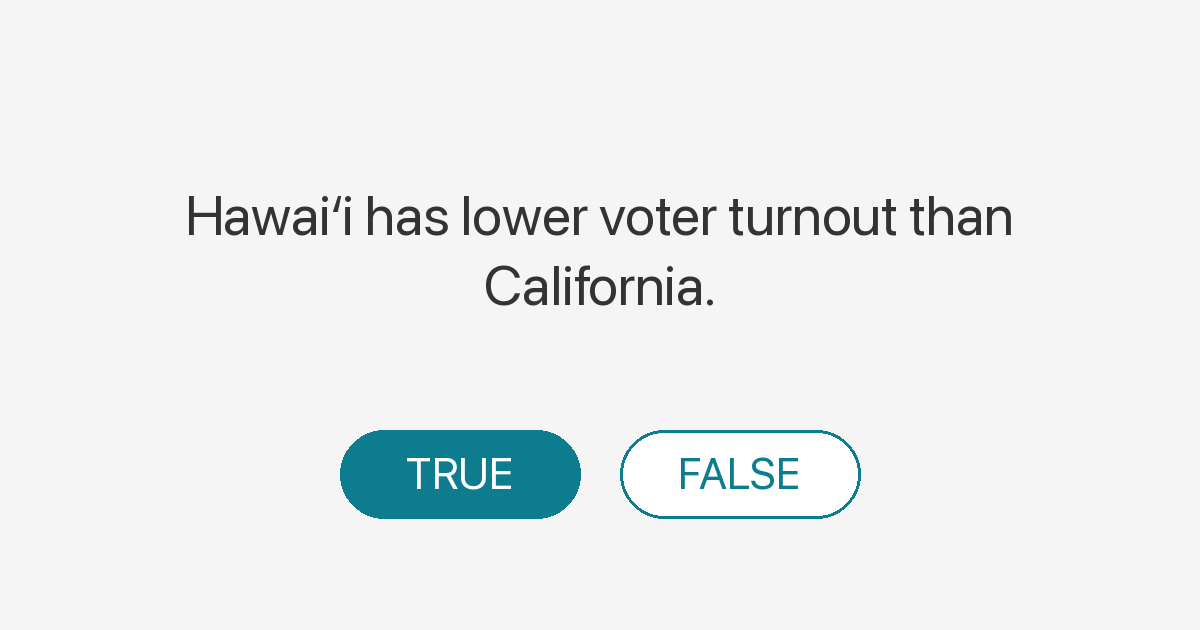
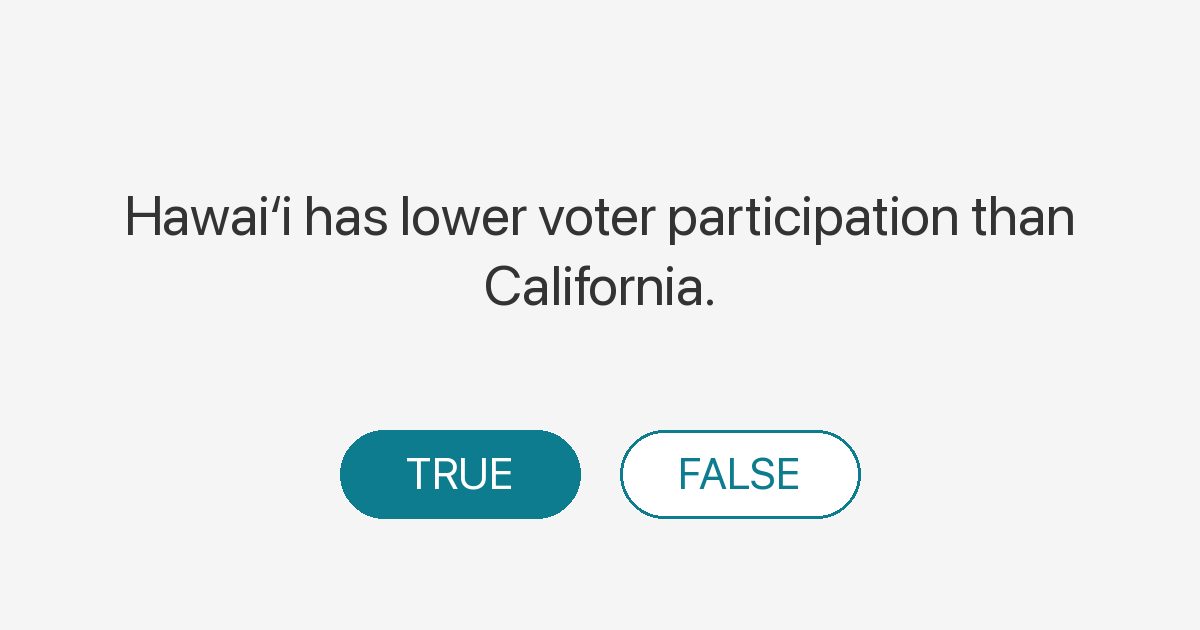
content: use "voter participation" consistently, never "voter turnout"
The metric is the share of voting-ELIGIBLE residents (VEP) casting a ballot,
i.e. "voter participation" — distinct from "turnout" of registered voters. Align
the remaining surfaces to the metric label + slugs:
- QOTD claims q070, q072, q073 reworded turnout -> participation (q073's slug +
  OG renamed too, old OG removed). All stay TRUE; answers unchanged.
- voter_participation_rate narrative in js/data.js: 15 prose "turnout" ->
  "participation". Kept only the source's literal URL and the cited paper title.

Changed region(s): [[0.0925, 0.3016, 0.8942, 0.3921]]

diff --git a/js/data.js b/js/data.js
@@ -2483,9 +2483,9 @@ const DASHBOARD_DATA = {
       "year": 2024,
       "source": "US Elections Project (VEP 2024)"
     },
-    "howToRead": "The zigzag pattern reflects presidential years (higher turnout) vs. midterm elections (lower). Hawaiʻi has been worse than the median for over 40 years, and the gap has widened: 8 points in 1980, 15 points in 2024.",
-    "potentialDrivers": "Hawaiʻi adopted all-mail voting and same-day registration, yet turnout ranks #50. Removing logistical barriers did not move the needle. Low electoral competition is the most likely driver. <a href=\"https://apnews.com/article/b0db5c6a5c3f5e1745c9b9cc646126f5\">AP reported in 2024</a> that only 279 candidates filed statewide, down from 330 in 2020 and more than 400 in 2022, with many legislative incumbents and several local officials running unopposed. <a href=\"https://uhero.hawaii.edu/wp-content/uploads/2023/02/Public-Campaign-Financing.pdf\">UHERO found in 2023</a> that Hawaiʻi's partial public financing system is ineffective at raising competition and that stronger electoral competition tends to directly increase voter mobilization and turnout. Access barriers are not the main cause: the <a href=\"https://elections.hawaii.gov/wp-content/uploads/Implementing-Elections-by-Mail-2024-Final.pdf\">Office of Elections reported in 2024</a> that mail ballot packets went out before both elections, same-day registration was available statewide, and more than 89,000 voters had enrolled in ballot tracking before the general election.",
-    "countyNarrative": "Low turnout is a statewide pattern rather than a county-specific problem, and all four counties rank well below national norms. Honolulu County drives the overall figure by weight of population; competitive mayoral and city council races occasionally lift Oʻahu turnout modestly above the state average. Maui County has seen competitive local races in recent cycles, and post-wildfire civic engagement lifted 2024 turnout in some precincts. Hawaiʻi County and Kauaʻi County consistently post the state's lowest county-level turnout rates, reflecting smaller candidate fields and fewer competitive down-ballot contests relative to their voter rolls.",
+    "howToRead": "The zigzag pattern reflects presidential years (higher participation) vs. midterm elections (lower). Hawaiʻi has been worse than the median for over 40 years, and the gap has widened: 8 points in 1980, 15 points in 2024.",
+    "potentialDrivers": "Hawaiʻi adopted all-mail voting and same-day registration, yet participation ranks #50. Removing logistical barriers did not move the needle. Low electoral competition is the most likely driver. <a href=\"https://apnews.com/article/b0db5c6a5c3f5e1745c9b9cc646126f5\">AP reported in 2024</a> that only 279 candidates filed statewide, down from 330 in 2020 and more than 400 in 2022, with many legislative incumbents and several local officials running unopposed. <a href=\"https://uhero.hawaii.edu/wp-content/uploads/2023/02/Public-Campaign-Financing.pdf\">UHERO found in 2023</a> that Hawaiʻi's partial public financing system is ineffective at raising competition and that stronger electoral competition tends to directly increase voter mobilization and participation. Access barriers are not the main cause: the <a href=\"https://elections.hawaii.gov/wp-content/uploads/Implementing-Elections-by-Mail-2024-Final.pdf\">Office of Elections reported in 2024</a> that mail ballot packets went out before both elections, same-day registration was available statewide, and more than 89,000 voters had enrolled in ballot tracking before the general election.",
+    "countyNarrative": "Low participation is a statewide pattern rather than a county-specific problem, and all four counties rank well below national norms. Honolulu County drives the overall figure by weight of population; competitive mayoral and city council races occasionally lift Oʻahu participation modestly above the state average. Maui County has seen competitive local races in recent cycles, and post-wildfire civic engagement lifted 2024 participation in some precincts. Hawaiʻi County and Kauaʻi County consistently post the state's lowest county-level participation rates, reflecting smaller candidate fields and fewer competitive down-ballot contests relative to their voter rolls.",
     "useConsolidated": true,
     "dataNote": "Uses Voting Eligible Population (VEP) as denominator, not registered voters.",
     "hawaii": {
@@ -2538,7 +2538,7 @@ const DASHBOARD_DATA = {
       "2022": 0.4728,
       "2024": 0.6466
     },
-    "policyLevers": "<ul class='cn-focus-list'><li><strong>Electoral competition</strong> · Research finds each additional competitive party or candidate increases turnout by 3.5 to 6 percentage points <a href=\"https://link.springer.com/article/10.1007/s11109-022-09810-5\" target=\"_blank\" rel=\"noopener\" class=\"cn-cite\">↗</a>; reforms such as open primaries or ranked-choice voting could raise effective competition <a href=\"https://apnews.com/article/b0db5c6a5c3f5e1745c9b9cc646126f5\" target=\"_blank\" rel=\"noopener\" class=\"cn-cite\">↗</a>.</li><li><strong>Access infrastructure</strong> · Colorado's all-mail voting increased turnout roughly 8 percentage points, with the largest gains among low-propensity voters <a href=\"https://pmc.ncbi.nlm.nih.gov/articles/PMC9756790/\" target=\"_blank\" rel=\"noopener\" class=\"cn-cite\">↗</a>; Hawaiʻi adopted all-mail voting in 2020 but ranks #50, suggesting logistical reform alone does not overcome low motivation to vote when races are uncompetitive.</li><li><strong>Candidate entry and civic engagement</strong> · Matching-fund public financing and lower contribution thresholds in other jurisdictions have increased candidate entry <a href=\"https://uhero.hawaii.edu/wp-content/uploads/2023/02/Public-Campaign-Financing.pdf\" target=\"_blank\" rel=\"noopener\" class=\"cn-cite\">↗</a>; MIT Election Lab notes automatic voter registration increases registration but does not reliably translate to higher turnout without competitive elections <a href=\"https://electionlab.mit.edu/research/automatic-voter-registration\" target=\"_blank\" rel=\"noopener\" class=\"cn-cite\">↗</a>.</li></ul>",
+    "policyLevers": "<ul class='cn-focus-list'><li><strong>Electoral competition</strong> · Research finds each additional competitive party or candidate increases participation by 3.5 to 6 percentage points <a href=\"https://link.springer.com/article/10.1007/s11109-022-09810-5\" target=\"_blank\" rel=\"noopener\" class=\"cn-cite\">↗</a>; reforms such as open primaries or ranked-choice voting could raise effective competition <a href=\"https://apnews.com/article/b0db5c6a5c3f5e1745c9b9cc646126f5\" target=\"_blank\" rel=\"noopener\" class=\"cn-cite\">↗</a>.</li><li><strong>Access infrastructure</strong> · Colorado's all-mail voting increased participation roughly 8 percentage points, with the largest gains among low-propensity voters <a href=\"https://pmc.ncbi.nlm.nih.gov/articles/PMC9756790/\" target=\"_blank\" rel=\"noopener\" class=\"cn-cite\">↗</a>; Hawaiʻi adopted all-mail voting in 2020 but ranks #50, suggesting logistical reform alone does not overcome low motivation to vote when races are uncompetitive.</li><li><strong>Candidate entry and civic engagement</strong> · Matching-fund public financing and lower contribution thresholds in other jurisdictions have increased candidate entry <a href=\"https://uhero.hawaii.edu/wp-content/uploads/2023/02/Public-Campaign-Financing.pdf\" target=\"_blank\" rel=\"noopener\" class=\"cn-cite\">↗</a>; MIT Election Lab notes automatic voter registration increases registration but does not reliably translate to higher participation without competitive elections <a href=\"https://electionlab.mit.edu/research/automatic-voter-registration\" target=\"_blank\" rel=\"noopener\" class=\"cn-cite\">↗</a>.</li></ul>",
     "nextUpdate": "Nov",
     "rankHistoryNarrative": {
       "summary": "Hawaiʻi has ranked near or at the bottom for four decades, holding #50 in every presidential election since 2004. All-mail voting (2020) produced no lasting increase, suggesting the barriers aren't about access or process.",
@@ -2546,7 +2546,7 @@ const DASHBOARD_DATA = {
       "benchmarks": [
         {
           "state": "Colorado",
-          "text": "Like Hawaiʻi, Colorado adopted all-mail voting, but paired it with automatic voter registration and competitive elections across the ballot. Colorado enacted universal vote-by-mail in 2013 (HB 1303) paired with same-day voter registration at voting service centers and automatic voter registration through the DMV. Colorado went from worse than average turnout in the early 2000s to consistently ranking in the top 10 by 2016. Approximately 15 to 20 percent of Colorado voters in recent elections registered on election day or in the final week, a direct result of same-day registration availability.",
+          "text": "Like Hawaiʻi, Colorado adopted all-mail voting, but paired it with automatic voter registration and competitive elections across the ballot. Colorado enacted universal vote-by-mail in 2013 (HB 1303) paired with same-day voter registration at voting service centers and automatic voter registration through the DMV. Colorado went from worse than average participation in the early 2000s to consistently ranking in the top 10 by 2016. Approximately 15 to 20 percent of Colorado voters in recent elections registered on election day or in the final week, a direct result of same-day registration availability.",
           "source": {
             "label": "HB13-1303 Voter Access and Modernized Elections Act - ACLU of Colorado",
             "url": "https://www.aclu-co.org/legislation/hb13-1303-voter-access-modernized-elections-act"
@@ -2554,11 +2554,11 @@ const DASHBOARD_DATA = {
         }
       ],
       "explore": [
-        "Colorado paired all-mail voting with automatic registration and competitive elections; Oregon's all-mail gains faded without those reinforcing factors. In Hawaiʻi, roughly 27 percent of residents speak a language other than English at home, a barrier some high-turnout states address through multilingual voter guides. Consistent one-party margins in statewide races also reduce the financial incentive for either party to invest in aggressive voter mobilization."
+        "Colorado paired all-mail voting with automatic registration and competitive elections; Oregon's all-mail gains faded without those reinforcing factors. In Hawaiʻi, roughly 27 percent of residents speak a language other than English at home, a barrier some high-participation states address through multilingual voter guides. Consistent one-party margins in statewide races also reduce the financial incentive for either party to invest in aggressive voter mobilization."
       ],
       "caution": {
         "state": "Oregon",
-        "text": "Like Hawaiʻi, Oregon adopted all-mail voting but found that logistical reform alone did not sustain turnout gains over time. Oregon pioneered all-mail voting in 2000 and maintained better-than-average turnout for over a decade. Oregon's ranking has since declined as other states adopted mail voting without Oregon maintaining a comparable lead. Vote-by-mail removes logistical barriers for motivated voters but does not independently create the civic engagement that drives high turnout.",
+        "text": "Like Hawaiʻi, Oregon adopted all-mail voting but found that logistical reform alone did not sustain participation gains over time. Oregon pioneered all-mail voting in 2000 and maintained better-than-average participation for over a decade. Oregon's ranking has since declined as other states adopted mail voting without Oregon maintaining a comparable lead. Vote-by-mail removes logistical barriers for motivated voters but does not independently create the civic engagement that drives high participation.",
         "source": {
           "label": "All-Mail Voting in Colorado Increases Turnout and Reduces Inequality - PMC/PNAS",
           "url": "https://pmc.ncbi.nlm.nih.gov/articles/PMC9756790/"

diff --git a/q/q073/index.html b/q/q073/index.html
@@ -6,14 +6,14 @@
   <meta property="og:type" content="website">
   <meta property="og:url" content="https://hawaiidashboard.org/q/q073/">
   <meta property="og:title" content="You know Hawaiʻi?">
-  <meta property="og:image" content="https://hawaiidashboard.org/assets/og/q/voter-turnout-has-gone-down-in-hawaii-in-the-last-five-years.png">
+  <meta property="og:image" content="https://hawaiidashboard.org/assets/og/q/voter-participation-has-gone-down-in-hawaii-in-the-last-five-years.png">
   <meta property="og:image:width" content="1200">
   <meta property="og:image:height" content="630">
   <meta property="og:site_name" content="Hawaiʻi Dashboard">
   <meta name="twitter:card" content="summary_large_image">
   <meta name="twitter:title" content="You know Hawaiʻi?">
-  <meta name="twitter:image" content="https://hawaiidashboard.org/assets/og/q/voter-turnout-has-gone-down-in-hawaii-in-the-last-five-years.png">
-  <meta name="description" content="Voter turnout has gone down in Hawaiʻi in the last five years.">
+  <meta name="twitter:image" content="https://hawaiidashboard.org/assets/og/q/voter-participation-has-gone-down-in-hawaii-in-the-last-five-years.png">
+  <meta name="description" content="Voter participation has gone down in Hawaiʻi in the last five years.">
   <link rel="canonical" href="https://hawaiidashboard.org/q/q073/">
   <script>window.location.replace("/?from_q=q073");</script>
   <meta http-equiv="refresh" content="0;url=https://hawaiidashboard.org/?from_q=q073">
@@ -22,7 +22,7 @@
   <p>Redirecting to <a href="https://hawaiidashboard.org/?from_q=q073">You know Hawaiʻi?</a>&hellip;</p>
   <article style="max-width:640px;margin:2rem auto;padding:0 1rem;font-family:-apple-system,BlinkMacSystemFont,'Segoe UI',sans-serif;color:#333;line-height:1.55;">
     <p style="color:#888;font-size:0.875rem;text-transform:uppercase;letter-spacing:0.05em;margin:0;">You know Hawaiʻi?</p>
-    <p style="margin:0.25rem 0 1rem;font-size:1.25rem;font-weight:600;">Voter turnout has gone down in Hawaiʻi in the last five years.</p>
+    <p style="margin:0.25rem 0 1rem;font-size:1.25rem;font-weight:600;">Voter participation has gone down in Hawaiʻi in the last five years.</p>
     <p><strong>True.</strong> Hawaiʻi's voter participation rate went from 55.4% to 50.3% between 2020 and 2024 (-9.2%).</p>
     <p style="margin-top:1.5rem;"><a href="/t/voter_participation_rate/">See the data &rarr;</a></p>
   </article>

diff --git a/q/q070/index.html b/q/q070/index.html
@@ -13,7 +13,7 @@
   <meta name="twitter:card" content="summary_large_image">
   <meta name="twitter:title" content="You know Hawaiʻi?">
   <meta name="twitter:image" content="https://hawaiidashboard.org/assets/og/q/hawaii-is-among-the-states-with-the-lowest-voter-participation.png">
-  <meta name="description" content="Hawaiʻi is among the states with the lowest voter turnout.">
+  <meta name="description" content="Hawaiʻi is among the states with the lowest voter participation.">
   <link rel="canonical" href="https://hawaiidashboard.org/q/q070/">
   <script>window.location.replace("/?from_q=q070");</script>
   <meta http-equiv="refresh" content="0;url=https://hawaiidashboard.org/?from_q=q070">
@@ -22,7 +22,7 @@
   <p>Redirecting to <a href="https://hawaiidashboard.org/?from_q=q070">You know Hawaiʻi?</a>&hellip;</p>
   <article style="max-width:640px;margin:2rem auto;padding:0 1rem;font-family:-apple-system,BlinkMacSystemFont,'Segoe UI',sans-serif;color:#333;line-height:1.55;">
     <p style="color:#888;font-size:0.875rem;text-transform:uppercase;letter-spacing:0.05em;margin:0;">You know Hawaiʻi?</p>
-    <p style="margin:0.25rem 0 1rem;font-size:1.25rem;font-weight:600;">Hawaiʻi is among the states with the lowest voter turnout.</p>
+    <p style="margin:0.25rem 0 1rem;font-size:1.25rem;font-weight:600;">Hawaiʻi is among the states with the lowest voter participation.</p>
     <p><strong>True.</strong> Hawaiʻi has the #1 lowest value among 50 states in 2024 (50.3%).</p>
     <p style="margin-top:1.5rem;"><a href="/r/voter_participation_rate/">See the data &rarr;</a></p>
   </article>

diff --git a/q/q072/index.html b/q/q072/index.html
@@ -13,7 +13,7 @@
   <meta name="twitter:card" content="summary_large_image">
   <meta name="twitter:title" content="You know Hawaiʻi?">
   <meta name="twitter:image" content="https://hawaiidashboard.org/assets/og/q/hawaii-has-lower-voter-participation-than-california.png">
-  <meta name="description" content="Hawaiʻi has lower voter turnout than California.">
+  <meta name="description" content="Hawaiʻi has lower voter participation than California.">
   <link rel="canonical" href="https://hawaiidashboard.org/q/q072/">
   <script>window.location.replace("/?from_q=q072");</script>
   <meta http-equiv="refresh" content="0;url=https://hawaiidashboard.org/?from_q=q072">
@@ -22,7 +22,7 @@
   <p>Redirecting to <a href="https://hawaiidashboard.org/?from_q=q072">You know Hawaiʻi?</a>&hellip;</p>
   <article style="max-width:640px;margin:2rem auto;padding:0 1rem;font-family:-apple-system,BlinkMacSystemFont,'Segoe UI',sans-serif;color:#333;line-height:1.55;">
     <p style="color:#888;font-size:0.875rem;text-transform:uppercase;letter-spacing:0.05em;margin:0;">You know Hawaiʻi?</p>
-    <p style="margin:0.25rem 0 1rem;font-size:1.25rem;font-weight:600;">Hawaiʻi has lower voter turnout than California.</p>
+    <p style="margin:0.25rem 0 1rem;font-size:1.25rem;font-weight:600;">Hawaiʻi has lower voter participation than California.</p>
     <p><strong>True.</strong> In 2024, Hawaiʻi was 50.3% versus California at 62.3%.</p>
     <p style="margin-top:1.5rem;"><a href="/t/voter_participation_rate/ca/">See the data &rarr;</a></p>
   </article>

diff --git a/js/questions.js b/js/questions.js
@@ -227,7 +227,7 @@ const QOTD_QUESTIONS = [
   {
       "id": "q070",
       "slug": "hawaii-is-among-the-states-with-the-lowest-voter-participation",
-      "claim": "Hawaiʻi is among the states with the lowest voter turnout.",
+      "claim": "Hawaiʻi is among the states with the lowest voter participation.",
       "correct": true,
       "answer": "Hawaiʻi has the #1 lowest value among 50 states in 2024 (50.3%).",
       "chartUrl": "/r/voter_participation_rate/",
@@ -539,7 +539,7 @@ const QOTD_QUESTIONS = [
   {
       "id": "q072",
       "slug": "hawaii-has-lower-voter-participation-than-california",
-      "claim": "Hawaiʻi has lower voter turnout than California.",
+      "claim": "Hawaiʻi has lower voter participation than California.",
       "correct": true,
       "answer": "In 2024, Hawaiʻi was 50.3% versus California at 62.3%.",
       "chartUrl": "/t/voter_participation_rate/ca/",
@@ -658,8 +658,8 @@ const QOTD_QUESTIONS = [
   },
   {
       "id": "q073",
-      "slug": "voter-turnout-has-gone-down-in-hawaii-in-the-last-five-years",
-      "claim": "Voter turnout has gone down in Hawaiʻi in the last five years.",
+      "slug": "voter-participation-has-gone-down-in-hawaii-in-the-last-five-years",
+      "claim": "Voter participation has gone down in Hawaiʻi in the last five years.",
       "correct": true,
       "answer": "Hawaiʻi's voter participation rate went from 55.4% to 50.3% between 2020 and 2024 (-9.2%).",
       "chartUrl": "/t/voter_participation_rate/",
